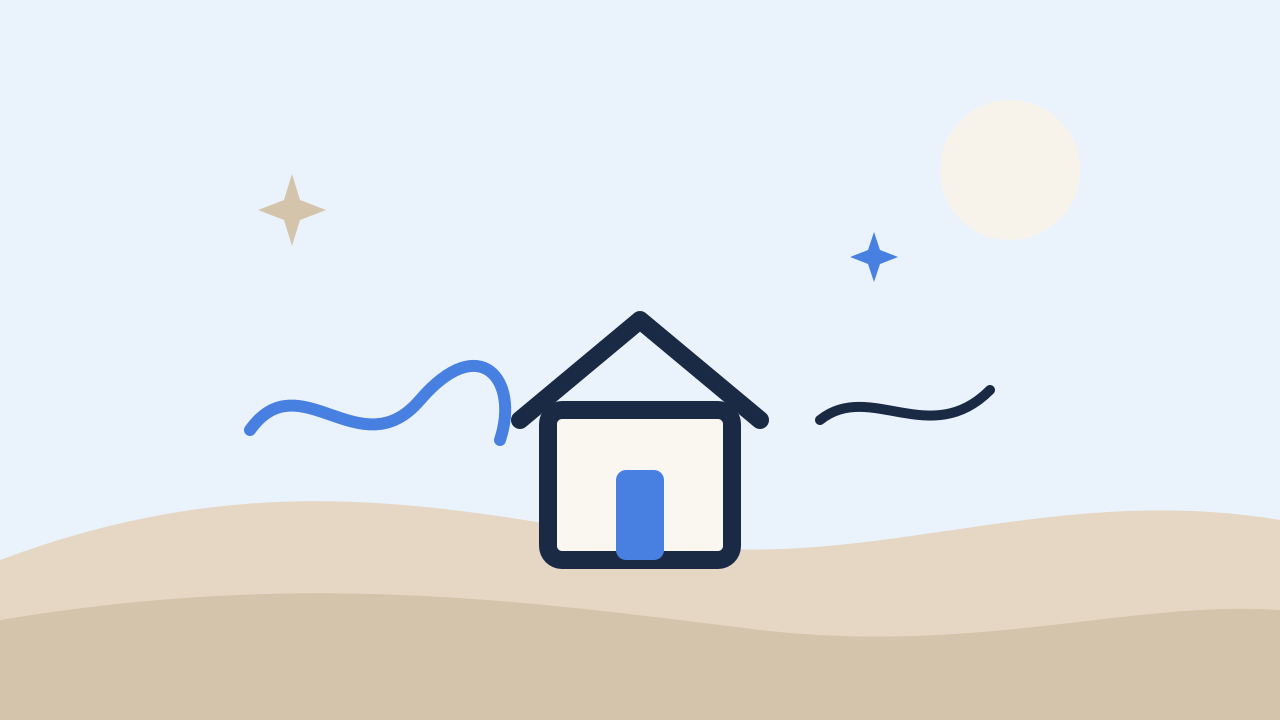
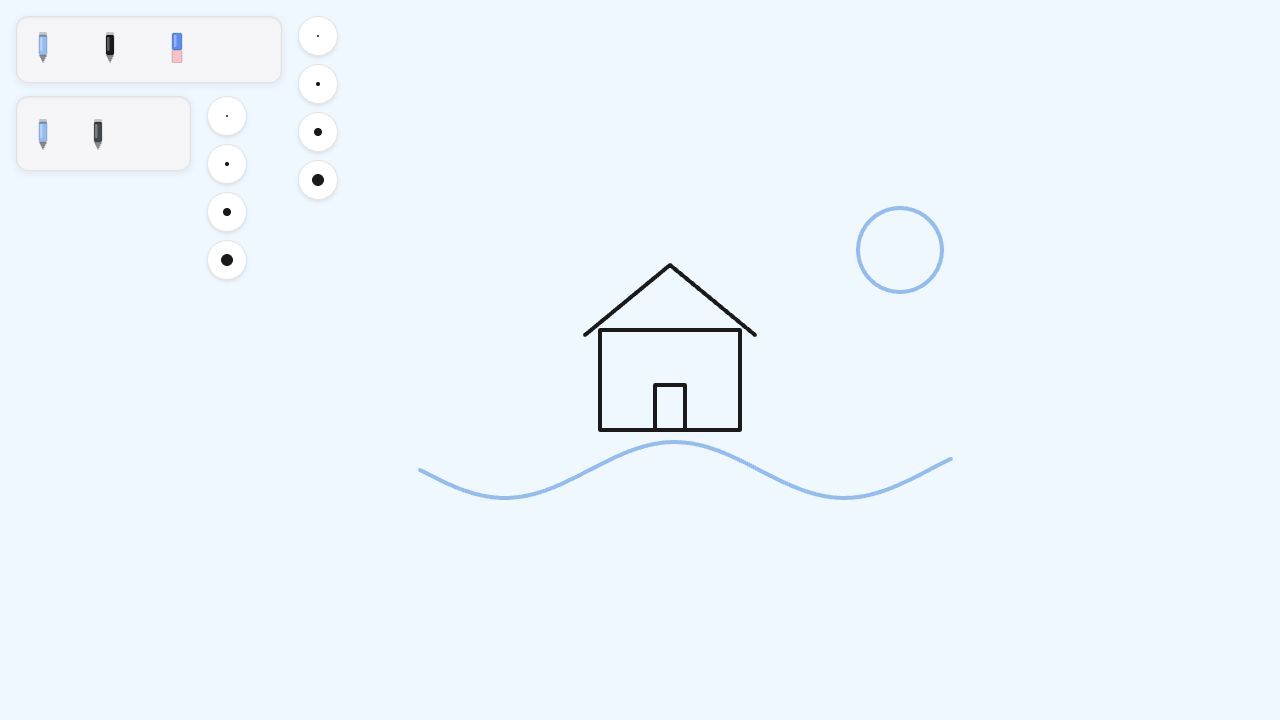
feat(world): 部屋の読み込みでワールドのサムネイルを先に出し、公式ワールドのサムネイルを実際の画面にする
- 読み込み画面は、前の画面から渡された見た目が無くても（共有の URL から直接入ったとき）部屋を引いた時点でワールドの名前とサムネイルを出す
- サムネイルは読み込みの中で先に取りに行き（fetchPriority high）、16:9 で大きく出し、後ろに同じ画像をぼかして敷く。読めなければ場所を空けない
- 公式ワールド（ホーム・弾幕・WASM デモ）のサムネイルを、描いた絵から実際の画面（1280x720）に差し替える。ホームは置き場が画面に固定なので、部屋でペンで描いた画面を撮った

diff --git a/packages/frontend/src/world/InstanceLoadingScreen.tsx b/packages/frontend/src/world/InstanceLoadingScreen.tsx
@@ -1,3 +1,4 @@
+import { useState } from 'react';
 import { css, cx } from '@/styled-system/css';
 import type { LoadingStage, StageStatus } from './useInstanceLoading';
 
@@ -83,7 +84,58 @@ const labelColorClass: Record<StageStatus, string> = {
 };
 
 /**
- * インスタンス接続のロード画面。段階別ステータスと総合進捗バーを表示し、
+ * ワールドのサムネイル。読み込みの中でいちばん先に取りに行き（fetchPriority high）、届いたら出す。
+ * 後ろには同じ画像をぼかして敷く（2 枚目は同じ URL なのでもう一度は取りに行かない）。
+ */
+function WorldThumbnail({ src }: { src: string }) {
+    const [state, setState] = useState<'loading' | 'loaded' | 'failed'>('loading');
+    // 読めなければ場所も空けない（名前と進み具合だけにする）
+    if (state === 'failed') return null;
+    const loaded = state === 'loaded';
+    return (
+        <>
+            <img
+                src={src}
+                alt=""
+                aria-hidden="true"
+                className={css({
+                    position: 'absolute',
+                    inset: '-40px',
+                    width: 'calc(100% + 80px)',
+                    maxWidth: 'none',
+                    height: 'calc(100% + 80px)',
+                    objectFit: 'cover',
+                    filter: 'blur(28px) brightness(0.45)',
+                    transition: 'opacity 400ms ease',
+                    pointerEvents: 'none',
+                })}
+                style={{ opacity: loaded ? 1 : 0 }}
+            />
+            <img
+                src={src}
+                alt=""
+                fetchPriority="high"
+                decoding="async"
+                onLoad={() => setState('loaded')}
+                onError={() => setState('failed')}
+                className={css({
+                    position: 'relative',
+                    width: 'min(640px, 100%)',
+                    aspectRatio: '16 / 9',
+                    objectFit: 'cover',
+                    borderRadius: '16px',
+                    boxShadow: 'modal',
+                    bg: 'hudActionHover',
+                    transition: 'opacity 400ms ease',
+                })}
+                style={{ opacity: loaded ? 1 : 0 }}
+            />
+        </>
+    );
+}
+
+/**
+ * インスタンス接続のロード画面。ワールドのサムネイルを先に出し、段階別ステータスと総合進捗バーを表示する。
  * 失敗時はホームへ戻る導線を出す。
  */
 export function InstanceLoadingScreen({
@@ -111,6 +163,7 @@ export function InstanceLoadingScreen({
                 color: 'white',
                 gap: '24px',
                 px: '6',
+                overflow: 'hidden',
                 transition: 'opacity 500ms ease-in-out',
             })}
             style={{
@@ -118,36 +171,24 @@ export function InstanceLoadingScreen({
                 pointerEvents: fadingOut ? 'none' : 'auto',
             }}
         >
-            {thumbnail ? (
-                <img
-                    src={thumbnail}
-                    alt=""
-                    className={css({
-                        width: '120px',
-                        height: '120px',
-                        objectFit: 'cover',
-                        borderRadius: '24px',
-                        boxShadow: '0 8px 32px rgba(0, 0, 0, 0.4)',
-                    })}
-                />
-            ) : (
-                <div
-                    className={css({
-                        width: '120px',
-                        height: '120px',
-                        borderRadius: '24px',
-                        backgroundColor: 'rgba(255, 255, 255, 0.1)',
-                    })}
-                />
-            )}
+            {thumbnail && <WorldThumbnail key={thumbnail} src={thumbnail} />}
 
-            <h2 className={css({ fontSize: '22px', fontWeight: 'bold', letterSpacing: '0.04em', textAlign: 'center' })}>
+            <h2
+                className={css({
+                    position: 'relative',
+                    fontSize: '22px',
+                    fontWeight: 'bold',
+                    letterSpacing: '0.04em',
+                    textAlign: 'center',
+                })}
+            >
                 {worldName || (failed ? '接続に失敗しました' : '接続中...')}
             </h2>
 
             {failed ? (
                 <div
                     className={css({
+                        position: 'relative',
                         display: 'flex',
                         flexDirection: 'column',
                         alignItems: 'center',
@@ -191,6 +232,7 @@ export function InstanceLoadingScreen({
             ) : (
                 <div
                     className={css({
+                        position: 'relative',
                         width: 'full',
                         maxWidth: '360px',
                         display: 'flex',

diff --git a/packages/frontend/src/world/WorldView.tsx b/packages/frontend/src/world/WorldView.tsx
@@ -13,6 +13,7 @@ import { CursorLayer } from './cursor/CursorLayer';
 import { acceptEntry, hasAcceptedEntry, unverifiedEntryKey, unverifiedEntryMessage } from './entryGate';
 import { InstanceLoadingScreen } from './InstanceLoadingScreen';
 import { type InstanceFailure, InstanceNotFoundError } from './instanceFailure';
+import { type LoadingLook, loadingLook } from './loadingLook';
 import { ModRegistryProvider } from './ModRegistryContext';
 import type { ModSource } from './modSource';
 import {
@@ -93,6 +94,9 @@ export function WorldView({
 
     // インスタンスの取得・作者の確認など、Socket 以外で起きる失敗
     const [loadError, setLoadError] = useState<{ message: string; gone: boolean } | null>(null);
+    // 部屋を引いて分かったワールドの見た目（ロード画面に、mod より先に出す）
+    const [fetchedLook, setFetchedLook] = useState<{ instanceId: string; look: LoadingLook } | null>(null);
+    const look = loadingLook(preview, fetchedLook?.instanceId === instanceId ? fetchedLook.look : null);
     // mod の取得 / Worker 起動の進捗（各 Provider から通知される）
     const [mods, setMods] = useState({ completed: 0, total: 0 });
     const [workers, setWorkers] = useState({ ready: 0, total: 0 });
@@ -141,6 +145,8 @@ export function WorldView({
                 setLoadError({ message: `入室できません: ${fetched.error}`, gone: fetched.gone });
                 return;
             }
+            const { displayName, thumbnail } = fetched.instance.world;
+            setFetchedLook({ instanceId, look: { displayName, thumbnail } });
             const entryKey = unverifiedEntryKey(fetched.instance.world);
             if (entryKey && !hasAcceptedEntry(sessionStorage, entryKey)) {
                 const accepted = await confirmEntry(unverifiedEntryMessage(fetched.instance.world));
@@ -197,8 +203,8 @@ export function WorldView({
         <>
             {loading.showScreen && (
                 <InstanceLoadingScreen
-                    worldName={preview?.displayName}
-                    thumbnail={preview?.thumbnail}
+                    worldName={look.displayName}
+                    thumbnail={look.thumbnail}
                     progress={loading.progress}
                     stages={loading.stages}
                     fadingOut={loading.fadingOut}

diff --git a/packages/frontend/src/world/loadingLook.test.ts b/packages/frontend/src/world/loadingLook.test.ts
@@ -1,0 +1,25 @@
+import { describe, expect, it } from 'vitest';
+import { loadingLook } from './loadingLook';
+
+describe('loadingLook', () => {
+    it('渡されたものを先に使う（部屋を引く前から出せる）', () => {
+        expect(
+            loadingLook({ displayName: 'ホーム', thumbnail: 'https://a/home.png' }, { thumbnail: 'https://b/x.png' }),
+        ).toEqual({ displayName: 'ホーム', thumbnail: 'https://a/home.png' });
+    });
+
+    it('渡されていなければ、部屋を引いた結果を使う（共有の URL から直接入ったとき）', () => {
+        expect(loadingLook(undefined, { displayName: '弾幕', thumbnail: 'https://b/danmaku.png' })).toEqual({
+            displayName: '弾幕',
+            thumbnail: 'https://b/danmaku.png',
+        });
+    });
+
+    it('項目ごとに埋める。空白だけのものは無いものとする', () => {
+        expect(loadingLook({ displayName: '  ', thumbnail: 'https://a/x.png' }, { displayName: '弾幕' })).toEqual({
+            displayName: '弾幕',
+            thumbnail: 'https://a/x.png',
+        });
+        expect(loadingLook({ thumbnail: '' }, null)).toEqual({ displayName: undefined, thumbnail: undefined });
+    });
+});

diff --git a/packages/frontend/src/world/loadingLook.ts b/packages/frontend/src/world/loadingLook.ts
@@ -1,0 +1,18 @@
+/** ロード画面に出すワールドの見た目。 */
+export interface LoadingLook {
+    displayName?: string;
+    thumbnail?: string;
+}
+
+const text = (value: string | undefined): string | undefined => value?.trim() || undefined;
+
+/**
+ * 前の画面から渡された見た目を先に使い（すぐ出せる）、足りない分は部屋を引いた結果で埋める。
+ * 共有の URL から直接入ったときは渡されたものが無いので、部屋を引いた時点で出る。
+ */
+export function loadingLook(passed: LoadingLook | undefined, fetched: LoadingLook | null): LoadingLook {
+    return {
+        displayName: text(passed?.displayName) ?? text(fetched?.displayName),
+        thumbnail: text(passed?.thumbnail) ?? text(fetched?.thumbnail),
+    };
+}
